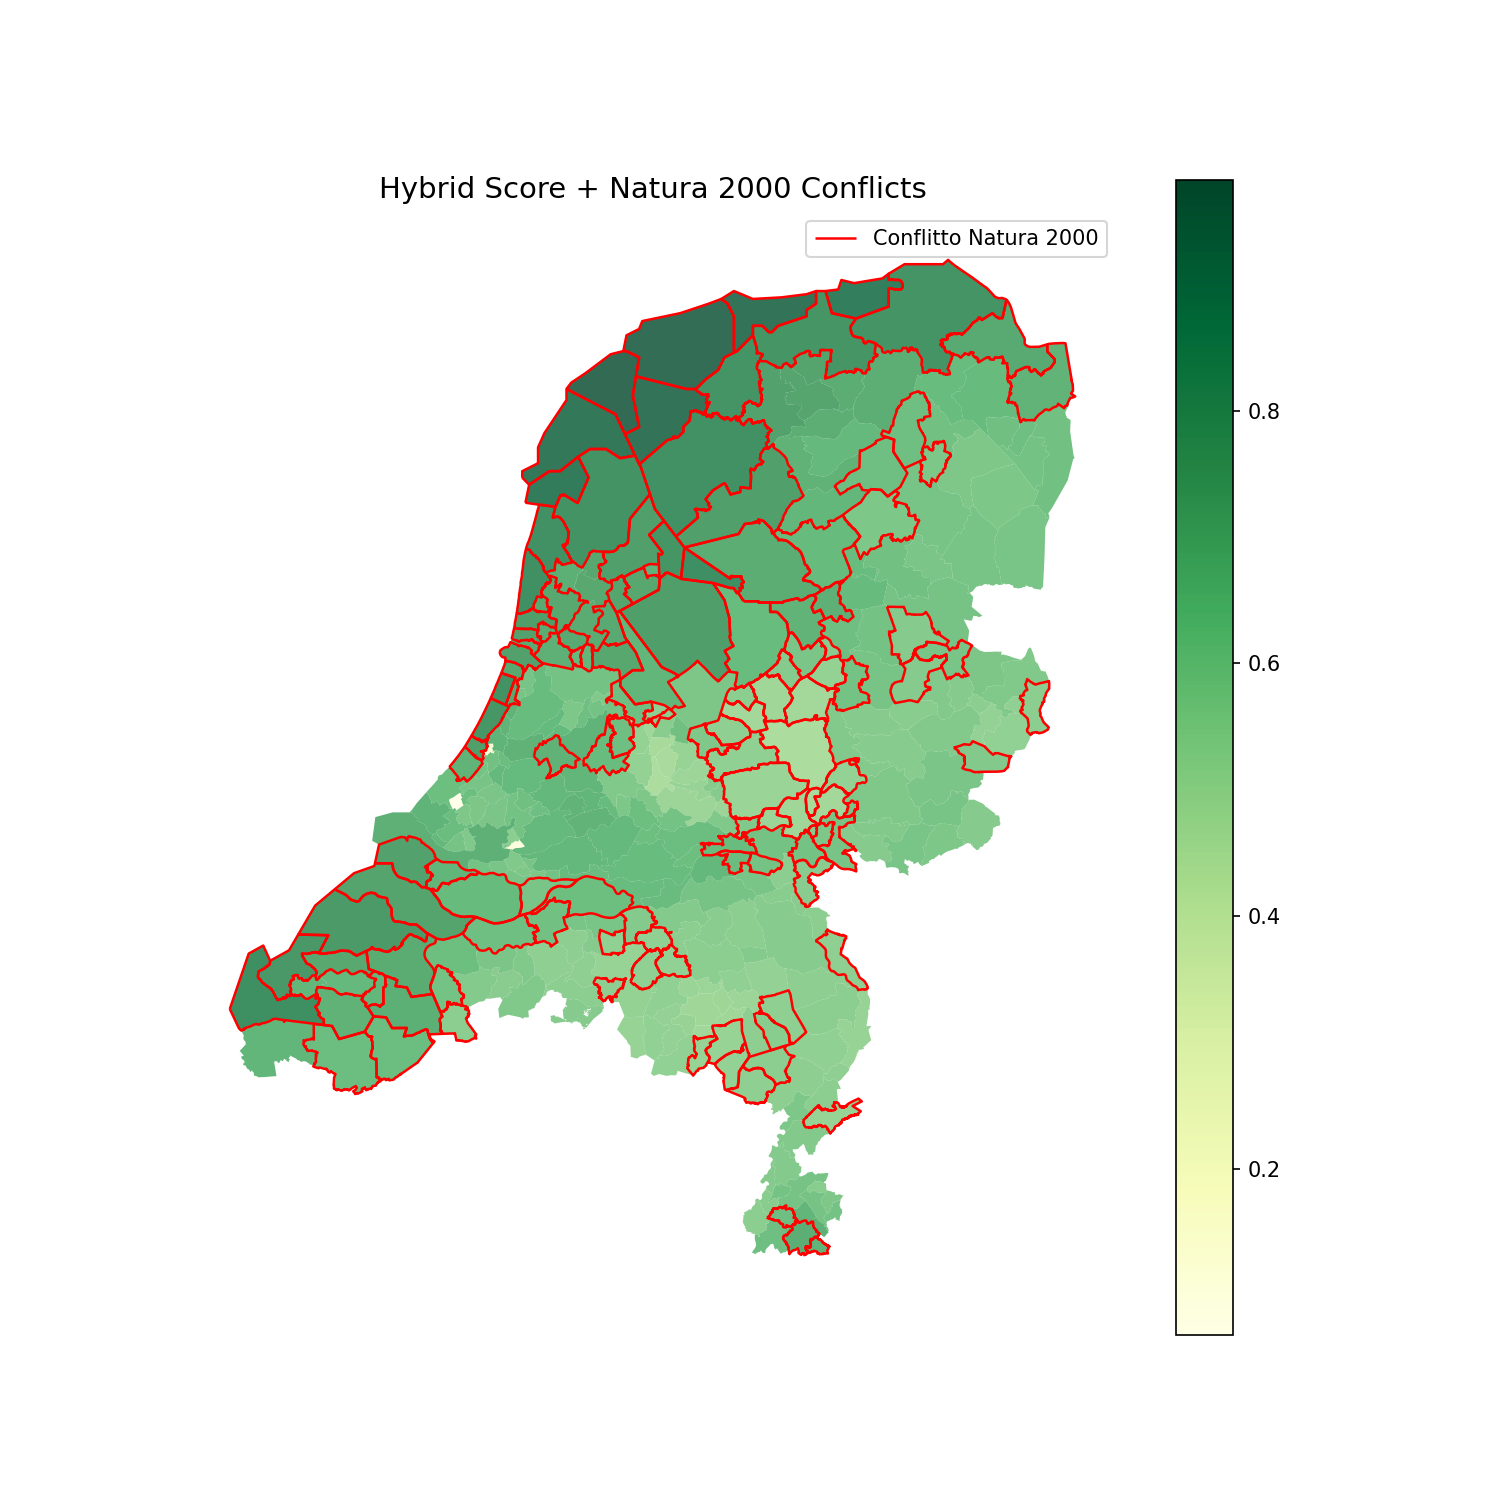
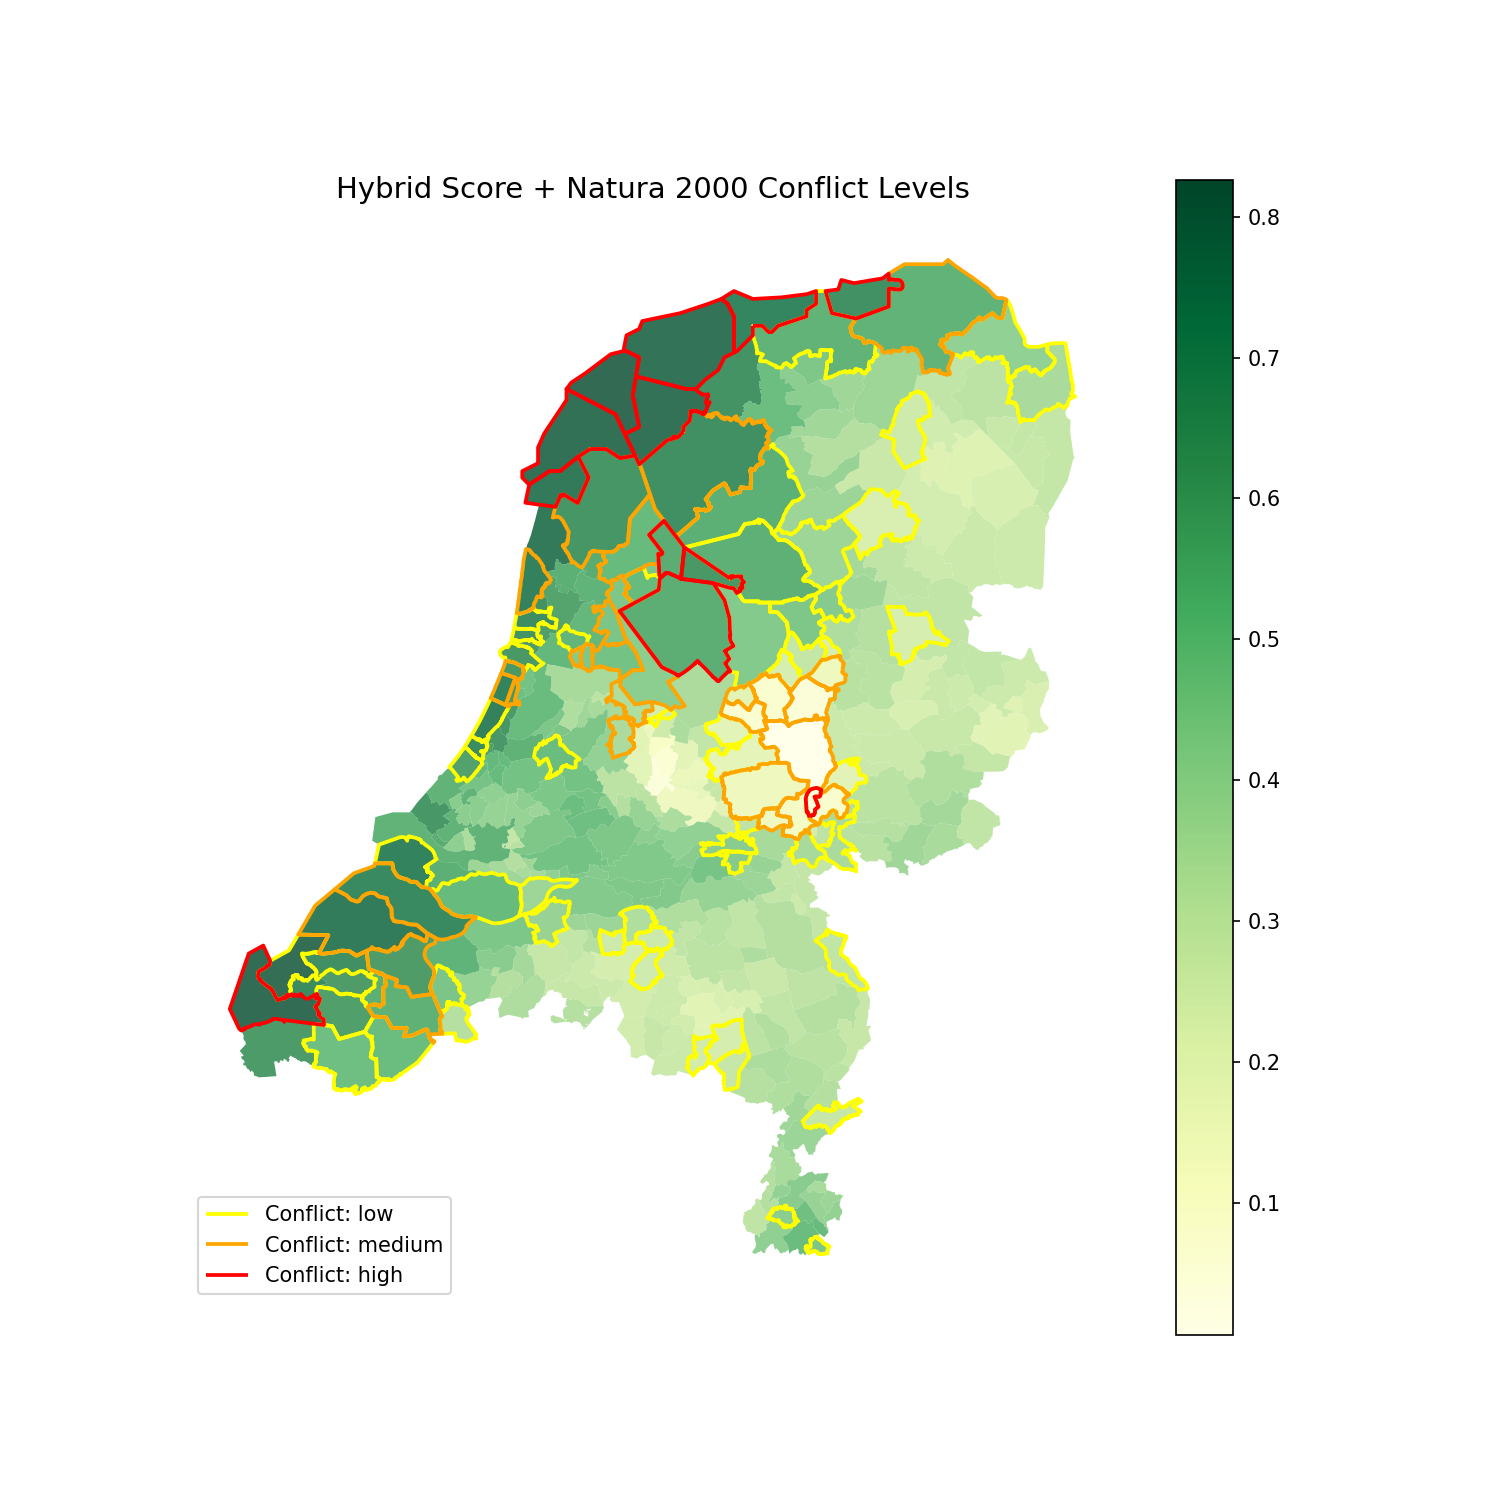
intermediate report stuff

diff --git a/analysis.py b/analysis.py
@@ -49,7 +49,7 @@ axes[2].set_title("Hybrid Score")
 axes[2].axis("off")
 
 plt.tight_layout()
-plt.savefig("greengrid_scores_map.png", dpi=150)
+plt.savefig("fig/greengrid_scores_map.png", dpi=150)
 plt.show()
 
 fig, ax = plt.subplots(figsize=(10, 10))
@@ -57,13 +57,22 @@ fig, ax = plt.subplots(figsize=(10, 10))
 # Base: hybrid score
 muni.plot(column="hybrid_score", ax=ax, cmap="YlGn", legend=True, alpha=0.8)
 
-# Overlay: conflicting municipalities in red
-muni[muni["conflict_flag"]].boundary.plot(ax=ax, color="red", linewidth=1.2, label="Conflict Natura 2000")
+# Conflict level colour mapping
+conflict_colors = {
+    "low":    "yellow",
+    "medium": "orange",
+    "high":   "red",
+}
 
-ax.set_title("Hybrid Score + Natura 2000 Conflicts", fontsize=14)
+for level, color in conflict_colors.items():
+    subset = muni[muni["conflict_level"] == level]
+    if not subset.empty:
+        subset.boundary.plot(ax=ax, color=color, linewidth=1.8, label=f"Conflict: {level}")
+
+ax.set_title("Hybrid Score + Natura 2000 Conflict Levels", fontsize=14)
 ax.axis("off")
-plt.legend()
-plt.savefig("greengrid_conflicts_map.png", dpi=150)
+ax.legend(loc="lower left")
+plt.savefig("fig/greengrid_conflicts_map.png", dpi=150)
 plt.show()
 
 # Available parcels

diff --git a/greengrid_analysis.py b/greengrid_analysis.py
@@ -363,11 +363,21 @@ print("\n[6/7] Normalising scores …")
 muni["wind_score"]  = minmax_norm(muni["avg_wind_wpd"].fillna(0))
 muni["solar_score"] = minmax_norm(muni["avg_solar_pvout"].fillna(0))
 muni["hybrid_score"] = (muni["wind_score"] + muni["solar_score"]) / 2
-muni["conflict_flag"] = muni["natura2000_overlap_pct"] > 10.0
 
-print(f"  wind_score  range: [{muni['wind_score'].min():.3f}, {muni['wind_score'].max():.3f}]")
-print(f"  solar_score range: [{muni['solar_score'].min():.3f}, {muni['solar_score'].max():.3f}]")
-print(f"  conflict municipalities: {muni['conflict_flag'].sum()}")
+def classify_conflict(pct):
+    if pct <= 15:
+        return "none"
+    elif pct <= 40:
+        return "low"
+    elif pct <= 70:
+        return "medium"
+    else:
+        return "high"
+
+muni["conflict_level"] = muni["natura2000_overlap_pct"].apply(classify_conflict)
+muni["conflict_flag"] = muni["natura2000_overlap_pct"] > 15.0
+
+print(muni["conflict_level"].value_counts())
 
 
 # ═════════════════════════════════════════════════════════════════════════════
@@ -385,6 +395,7 @@ OUTPUT_COLS = [
     "solar_score",
     "hybrid_score",
     "conflict_flag",
+    "conflict_level",
     "geometry",
 ]
 